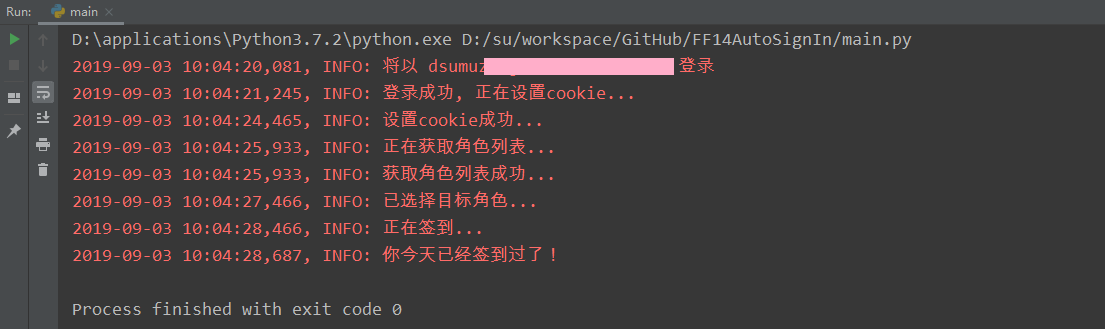
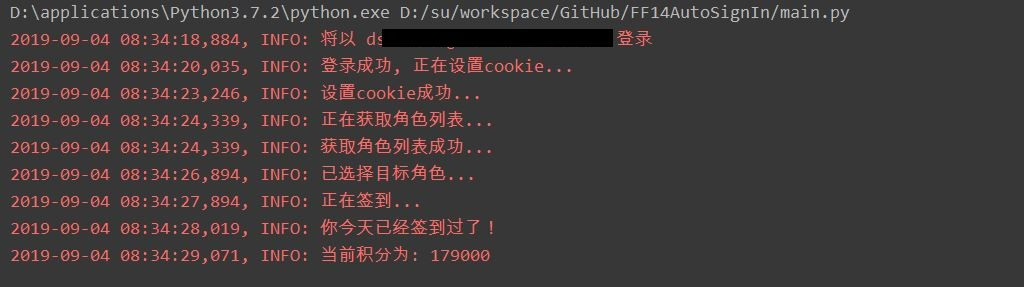
commit

Changed region(s): [[0.0, 0.0, 0.8438, 0.6411], [0.0, 0.669, 1.0, 1.0]]

diff --git a/main.py b/main.py
@@ -193,6 +193,21 @@ def step7():
     logging.info(obj["Message"])
 
 
+# 查询当前积分
+def step8():
+    time.sleep(1)
+    url = "http://act.ff.sdo.com/20180707jifen/Server/User.ashx"
+    params = {
+        "method": "querymystatus",
+        "i": "0.855755357775076"
+    }
+    r = requests.post(url, params=params, cookies=cookies)
+    obj = json.loads(r.text)
+    attach = obj["Attach"]
+    jifen = json.loads(attach)["Jifen"]
+    logging.info("当前积分为: %d" % jifen)
+
+
 def main():
     ticket = step1()
     if ticket == "":
@@ -205,6 +220,7 @@ def main():
         return
     step6(role)
     step7()
+    step8()
 
 
 if __name__ == "__main__":
